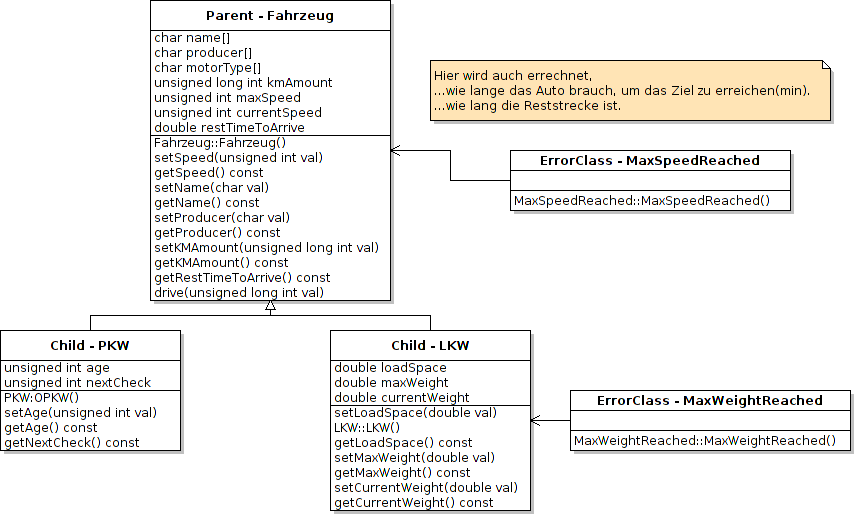
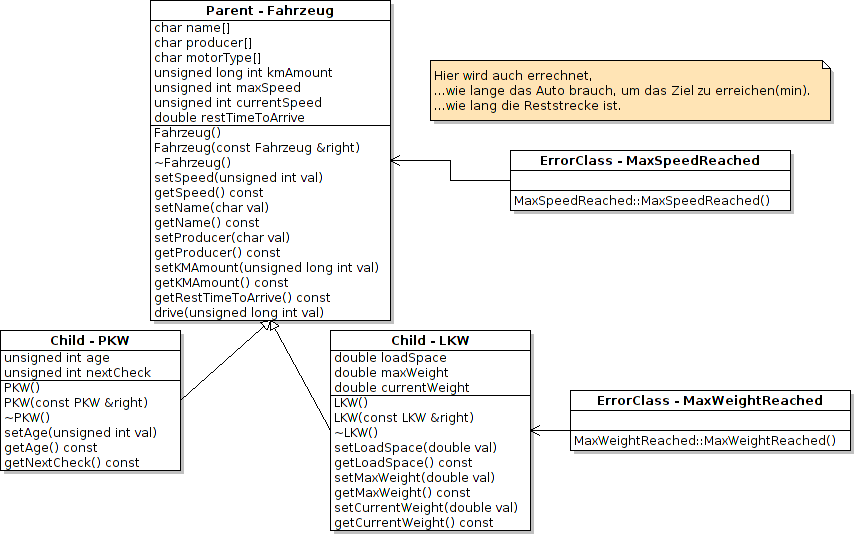
first draft of an oo exercise

diff --git a/c++/OOP-Uebung/src/Fahrzeug.h b/c++/OOP-Uebung/src/Fahrzeug.h
@@ -1,0 +1,40 @@
+/*
+ * Fahrzeug.h
+ *
+ *  Created on: 01.08.2012
+ *      Author: maik
+ */
+
+#ifndef FAHRZEUG_H_
+#define FAHRZEUG_H_
+
+class Fahrzeug {
+public:
+	char name[];
+	char producer[];
+	char motorType[];
+	unsigned long int kmAmount;
+	unsigned long int maxSpeed;
+	unsigned long int currentSpeed;
+	double restTimeToArrive;
+
+	Fahrzeug();
+	Fahrzeug(const Fahrzeug &right);
+	virtual ~Fahrzeug();
+
+	virtual void setSpeed(unsigned int val);
+	virtual unsigned int getSpeed() const;
+	virtual void setName(char val);
+	virtual char getName() const;
+	virtual void setProducer(char val);
+	virtual char getProducer() const;
+	virtual void setKMAmount(unsigned long int val);
+	virtual unsigned long int getKMAmount() const;
+	virtual int getRestTimeToArrive() const;
+	virtual bool drive(unsigned long int val);
+
+
+};
+
+
+#endif /* FAHRZEUG_H_ */

diff --git a/c++/OOP-Uebung/src/LKW.h b/c++/OOP-Uebung/src/LKW.h
@@ -1,0 +1,31 @@
+/*
+ * LKW.h
+ *
+ *  Created on: 01.08.2012
+ *      Author: maik
+ */
+
+#ifndef LKW_H_
+#define LKW_H_
+
+class LKW : public Fahrzeug {
+public:
+	double loadSpace;
+	double maxWeight;
+	double currentWeight;
+
+	LKW();
+	LKW(const LKW &right);
+	virtual ~LKW();
+
+	virtual void setLoadSpace(double val);
+	virtual double getLoadSpace() const;
+	virtual void setMaxWeight(double val);
+	virtual double getMaxWeight() const;
+	virtual void setCurrentWeight(double val);
+	virtual double getCurrentWeight() const;
+};
+
+
+
+#endif /* LKW_H_ */

diff --git a/c++/OOP-Uebung/src/OOP-Uebung.cpp b/c++/OOP-Uebung/src/OOP-Uebung.cpp
@@ -1,0 +1,19 @@
+//============================================================================
+// Name        : OOP-Uebung.cpp
+// Author      : 
+// Version     :
+// Copyright   : Your copyright notice
+// Description : Hello World in C++, Ansi-style
+//============================================================================
+
+#include <iostream>
+#include "Fahrzeug.h"
+#include "LKW.h"
+#include "PKW.h"
+
+using namespace std;
+
+int main() {
+	cout << "!!!Hello World!!!" << endl; // prints !!!Hello World!!!
+	return 0;
+}

diff --git a/c++/OOP-Uebung/src/PKW.h b/c++/OOP-Uebung/src/PKW.h
@@ -1,0 +1,25 @@
+/*
+ * PKW.h
+ *
+ *  Created on: 01.08.2012
+ *      Author: maik
+ */
+
+#ifndef PKW_H_
+#define PKW_H_
+
+class PKW : public Fahrzeug {
+public:
+	unsigned int age;
+	unsigned int nextCheck;
+
+	PKW();
+	PKW(const PKW &right);
+	virtual ~PKW();
+
+	virtual void setAge(unsigned int val);
+	virtual unsigned int getAge() const;
+	virtual unsigned int getNextCheck() const;
+};
+
+#endif /* PKW_H_ */

diff --git a/c++/OOP-Uebung/src/PKW.cpp b/c++/OOP-Uebung/src/PKW.cpp
@@ -1,0 +1,14 @@
+/*
+ * PKW.cpp
+ *
+ *  Created on: 01.08.2012
+ *      Author: maik
+ */
+
+#include <cstdlib>
+#include <cstdio>
+#include <cstring>
+#include "Fahrzeug.h"
+#include "PKW.h"
+
+

diff --git a/c++/OOP-Uebung/src/LKW.cpp b/c++/OOP-Uebung/src/LKW.cpp
@@ -1,0 +1,13 @@
+/*
+ * LKW.cpp
+ *
+ *  Created on: 01.08.2012
+ *      Author: maik
+ */
+
+#include <cstdlib>
+#include <cstdio>
+#include <cstring>
+#include "Fahrzeug.h"
+#include "LKW.h"
+

diff --git a/c++/OOP-Uebung/src/Fahrzeug.cpp b/c++/OOP-Uebung/src/Fahrzeug.cpp
@@ -1,0 +1,14 @@
+/*
+ * Fahrzeug.cpp
+ *
+ *  Created on: 01.08.2012
+ *      Author: maik
+ */
+
+#include "Fahrzeug.h"
+
+#include <cstdlib>
+#include <cstring>
+#include <cstdio>
+
+
